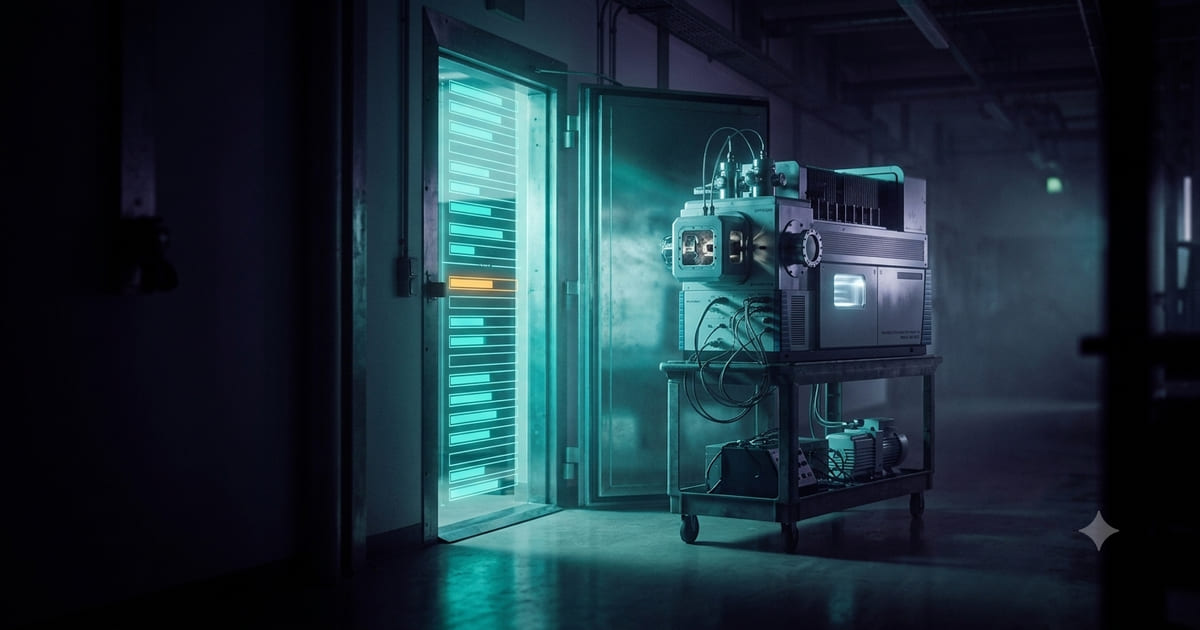
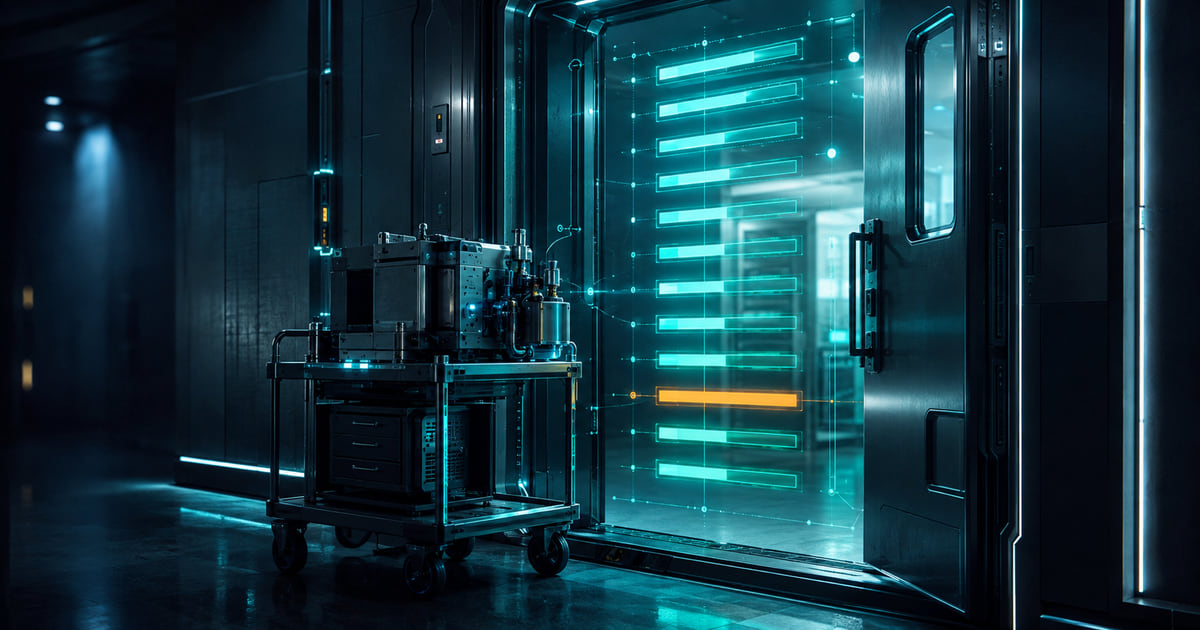
feat(blog): clearer gate artwork for the promotion-gate essay
Replaces the promotion-gate hero with a cleaner take on the same idea. The
door is properly open, the column of bar meters reads as a single legible
stack, and the one amber bar among the teal is unmistakable now rather than
something you have to hunt for — which matters, because that bar is the whole
essay: one measurement short of its threshold, and the instrument still waiting
outside the door.

It also drops the two problems the previous frame had. There is no readable
text anywhere in it, so nothing can be misread as a fabricated acquisition
parameter, and no generated-content sparkle in the corner.

OVERWRITTEN IN PLACE, NOT ADDED ALONGSIDE

The path is unchanged, so `posts.ts` needed no path edit and the URL — which
already returns 200 in production — keeps resolving. The tradeoff is caching:
anything holding the old bytes against this URL will keep showing the previous
artwork until it revalidates. Browsers revalidate on the next deploy, but
social scrapers cache og:image by URL and may need a manual re-scrape to pick
the new frame up.

The alt text is rewritten to match: the door is open rather than half-open, and
the amber bar sits among the others rather than short and below them.

diff --git a/moltrace_frontend/lib/blog/posts.ts b/moltrace_frontend/lib/blog/posts.ts
@@ -216,7 +216,7 @@ export const POSTS: BlogPost[] = [
     author: "MolTrace research team",
     heroImage: "/blog/experimental-default-promotion-gate.jpg",
     heroImageAlt:
-      "A darkened facility corridor at night. A heavy interlocked door stands half-open, cold teal light spilling through it, and a tall column of horizontal bar meters glows in the opening — most filled teal, one amber and short, sitting below the others. An analytical instrument waits on a wheeled trolley at the threshold, not yet through the door.",
+      "A darkened facility corridor at night. A heavy interlocked door stands open, and a tall column of horizontal bar meters glows across the opening — all of them teal except one, which is amber. An analytical instrument waits on a wheeled trolley outside the threshold, not yet through the door.",
     body: [
       {
         "type": "h2",
